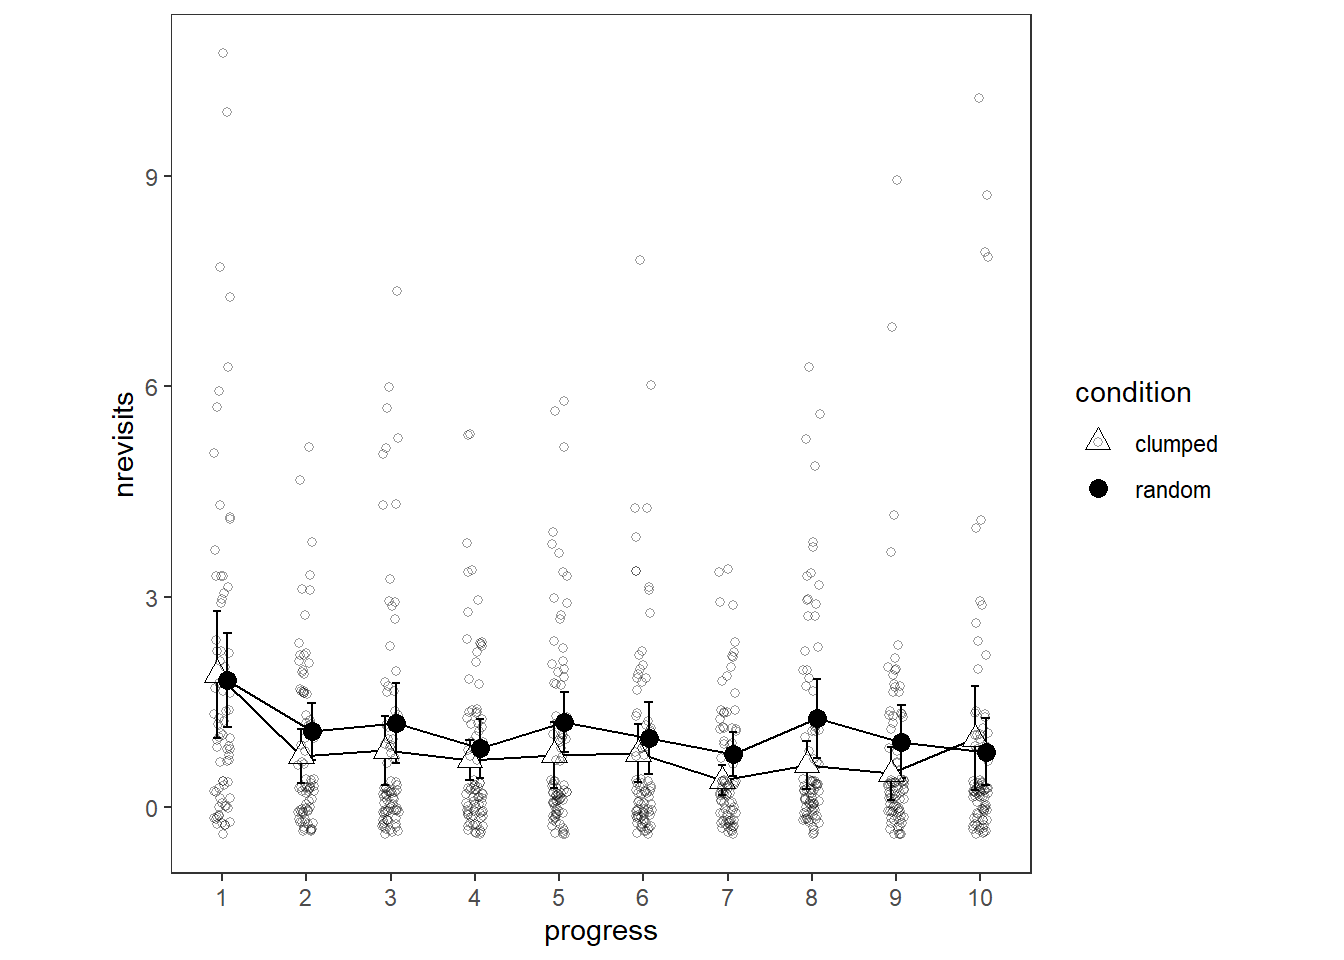
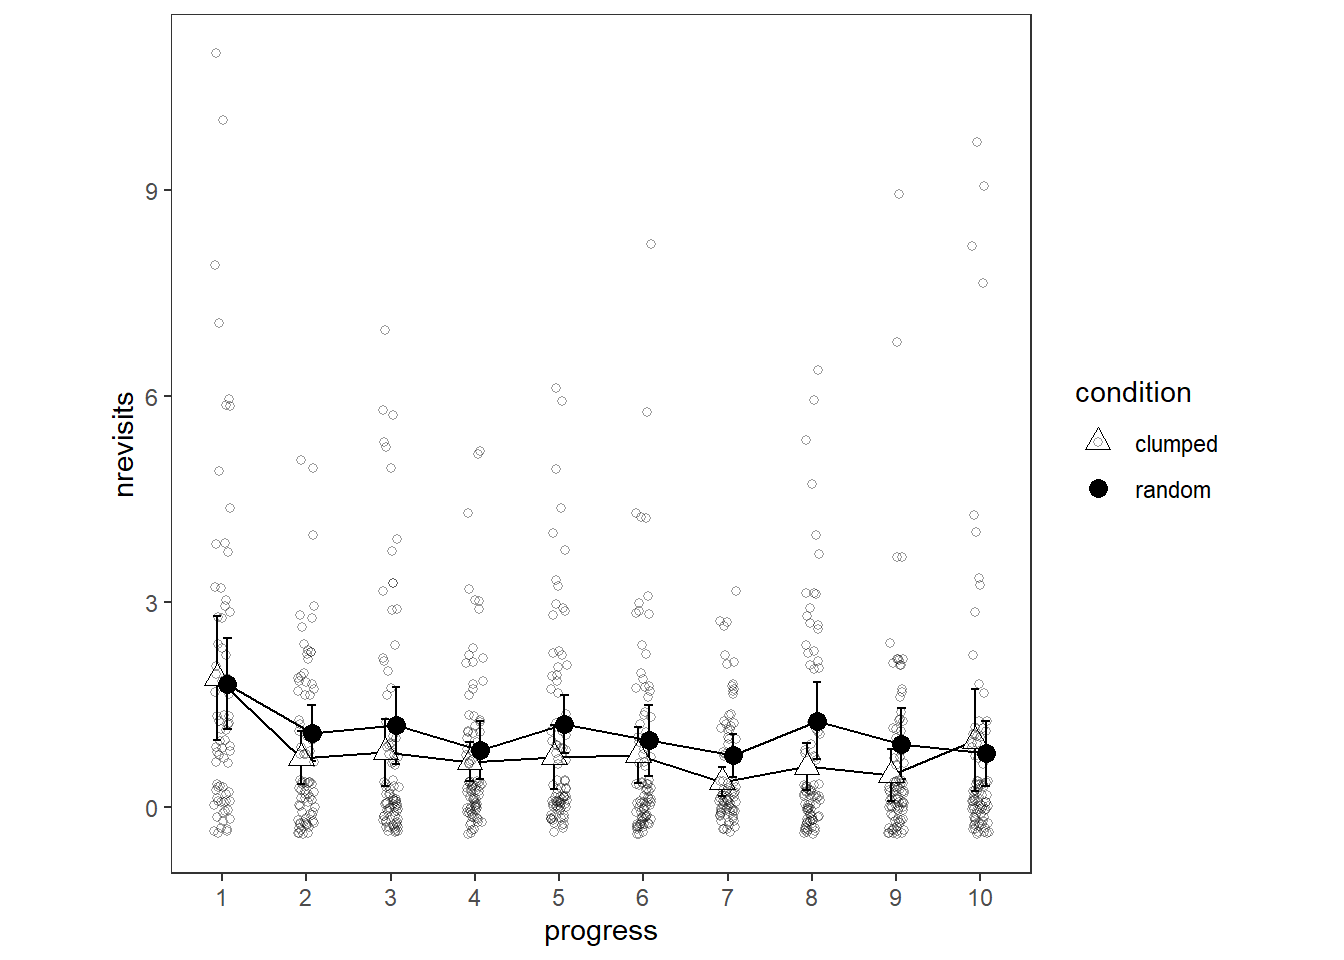
add retrieval rate for e2

diff --git a/docs/retrieval-rate-1.html b/docs/retrieval-rate-1.html
@@ -6,15 +6,15 @@
 <meta name="viewport" content="width=device-width, initial-scale=1, shrink-to-fit=no">
 <title>Chapter 12 Retrieval Rate | Foraging: introducing our gaze-contingent eye-tracking paradigm for studying foraging</title>
 <meta name="author" content="Matthew Green">
-<meta name="description" content="E2">
+<meta name="description" content="Experiment 2">
 <meta name="generator" content="bookdown 0.26 with bs4_book()">
 <meta property="og:title" content="Chapter 12 Retrieval Rate | Foraging: introducing our gaze-contingent eye-tracking paradigm for studying foraging">
 <meta property="og:type" content="book">
 <meta property="og:url" content="https://mjgreen.github.io/foraging-paradigm-paper-2022/retrieval-rate-1.html">
-<meta property="og:description" content="E2">
+<meta property="og:description" content="Experiment 2">
 <meta name="twitter:card" content="summary">
 <meta name="twitter:title" content="Chapter 12 Retrieval Rate | Foraging: introducing our gaze-contingent eye-tracking paradigm for studying foraging">
-<meta name="twitter:description" content="E2">
+<meta name="twitter:description" content="Experiment 2">
 <!-- JS --><script src="https://cdnjs.cloudflare.com/ajax/libs/clipboard.js/2.0.6/clipboard.min.js" integrity="sha256-inc5kl9MA1hkeYUt+EC3BhlIgyp/2jDIyBLS6k3UxPI=" crossorigin="anonymous"></script><script src="https://cdnjs.cloudflare.com/ajax/libs/fuse.js/6.4.6/fuse.js" integrity="sha512-zv6Ywkjyktsohkbp9bb45V6tEMoWhzFzXis+LrMehmJZZSys19Yxf1dopHx7WzIKxr5tK2dVcYmaCk2uqdjF4A==" crossorigin="anonymous"></script><script src="https://kit.fontawesome.com/6ecbd6c532.js" crossorigin="anonymous"></script><script src="libs/jquery-3.6.0/jquery-3.6.0.min.js"></script><meta name="viewport" content="width=device-width, initial-scale=1, shrink-to-fit=no">
 <link href="libs/bootstrap-4.6.0/bootstrap.min.css" rel="stylesheet">
 <script src="libs/bootstrap-4.6.0/bootstrap.bundle.min.js"></script><script src="libs/bs3compat-0.3.1/transition.js"></script><script src="libs/bs3compat-0.3.1/tabs.js"></script><script src="libs/bs3compat-0.3.1/bs3compat.js"></script><link href="libs/bs4_book-1.0.0/bs4_book.css" rel="stylesheet">
@@ -74,7 +74,9 @@
 <h1>
 <span class="header-section-number">12</span> Retrieval Rate<a class="anchor" aria-label="anchor" href="#retrieval-rate-1"><i class="fas fa-link"></i></a>
 </h1>
-<p>E2</p>
+<p>Experiment 2</p>
+<div class="inline-figure"><img src="e2_tables/e2_retrievalrate_ANOVA.png" width="50%"></div>
+<div class="inline-figure"><img src="e2_plots/e2_retrievalrate_PLOT2.png" width="75%"></div>
 
 </div>
   <div class="chapter-nav">
@@ -99,7 +101,7 @@
 <footer class="bg-primary text-light mt-5"><div class="container"><div class="row">
 
   <div class="col-12 col-md-6 mt-3">
-    <p>"<strong>Foraging: introducing our gaze-contingent eye-tracking paradigm for studying foraging</strong>" was written by Matthew Green. It was last built on Tuesday 17 May 2022 at 19:39:22.</p>
+    <p>"<strong>Foraging: introducing our gaze-contingent eye-tracking paradigm for studying foraging</strong>" was written by Matthew Green. It was last built on Tuesday 17 May 2022 at 20:15:53.</p>
   </div>
 
   <div class="col-12 col-md-6 mt-3">

diff --git a/docs/404.html b/docs/404.html
@@ -89,7 +89,7 @@ the table of contents to find the page you are looking for.</p>
 <footer class="bg-primary text-light mt-5"><div class="container"><div class="row">
 
   <div class="col-12 col-md-6 mt-3">
-    <p>"<strong>Foraging: introducing our gaze-contingent eye-tracking paradigm for studying foraging</strong>" was written by Matthew Green. It was last built on Tuesday 17 May 2022 at 19:39:22.</p>
+    <p>"<strong>Foraging: introducing our gaze-contingent eye-tracking paradigm for studying foraging</strong>" was written by Matthew Green. It was last built on Tuesday 17 May 2022 at 20:15:53.</p>
   </div>
 
   <div class="col-12 col-md-6 mt-3">

diff --git a/docs/index.html b/docs/index.html
@@ -108,7 +108,7 @@ set in the _output.yml file.&lt;/p&gt;">
 <footer class="bg-primary text-light mt-5"><div class="container"><div class="row">
 
   <div class="col-12 col-md-6 mt-3">
-    <p>"<strong>Foraging: introducing our gaze-contingent eye-tracking paradigm for studying foraging</strong>" was written by Matthew Green. It was last built on Tuesday 17 May 2022 at 19:39:22.</p>
+    <p>"<strong>Foraging: introducing our gaze-contingent eye-tracking paradigm for studying foraging</strong>" was written by Matthew Green. It was last built on Tuesday 17 May 2022 at 20:15:53.</p>
   </div>
 
   <div class="col-12 col-md-6 mt-3">

diff --git a/docs/references.html b/docs/references.html
@@ -106,7 +106,7 @@ set in the _output.yml file.&lt;/p&gt;">
 <footer class="bg-primary text-light mt-5"><div class="container"><div class="row">
 
   <div class="col-12 col-md-6 mt-3">
-    <p>"<strong>Foraging: introducing our gaze-contingent eye-tracking paradigm for studying foraging</strong>" was written by Matthew Green. It was last built on Tuesday 17 May 2022 at 19:39:22.</p>
+    <p>"<strong>Foraging: introducing our gaze-contingent eye-tracking paradigm for studying foraging</strong>" was written by Matthew Green. It was last built on Tuesday 17 May 2022 at 20:15:53.</p>
   </div>
 
   <div class="col-12 col-md-6 mt-3">

diff --git a/docs/inter-tree-distance.html b/docs/inter-tree-distance.html
@@ -102,7 +102,7 @@
 <footer class="bg-primary text-light mt-5"><div class="container"><div class="row">
 
   <div class="col-12 col-md-6 mt-3">
-    <p>"<strong>Foraging: introducing our gaze-contingent eye-tracking paradigm for studying foraging</strong>" was written by Matthew Green. It was last built on Tuesday 17 May 2022 at 19:39:22.</p>
+    <p>"<strong>Foraging: introducing our gaze-contingent eye-tracking paradigm for studying foraging</strong>" was written by Matthew Green. It was last built on Tuesday 17 May 2022 at 20:15:53.</p>
   </div>
 
   <div class="col-12 col-md-6 mt-3">

diff --git a/docs/introduction-1.html b/docs/introduction-1.html
@@ -105,7 +105,7 @@
 <footer class="bg-primary text-light mt-5"><div class="container"><div class="row">
 
   <div class="col-12 col-md-6 mt-3">
-    <p>"<strong>Foraging: introducing our gaze-contingent eye-tracking paradigm for studying foraging</strong>" was written by Matthew Green. It was last built on Tuesday 17 May 2022 at 19:39:22.</p>
+    <p>"<strong>Foraging: introducing our gaze-contingent eye-tracking paradigm for studying foraging</strong>" was written by Matthew Green. It was last built on Tuesday 17 May 2022 at 20:15:53.</p>
   </div>
 
   <div class="col-12 col-md-6 mt-3">

diff --git a/docs/introduction.html b/docs/introduction.html
@@ -104,7 +104,7 @@
 <footer class="bg-primary text-light mt-5"><div class="container"><div class="row">
 
   <div class="col-12 col-md-6 mt-3">
-    <p>"<strong>Foraging: introducing our gaze-contingent eye-tracking paradigm for studying foraging</strong>" was written by Matthew Green. It was last built on Tuesday 17 May 2022 at 19:39:22.</p>
+    <p>"<strong>Foraging: introducing our gaze-contingent eye-tracking paradigm for studying foraging</strong>" was written by Matthew Green. It was last built on Tuesday 17 May 2022 at 20:15:53.</p>
   </div>
 
   <div class="col-12 col-md-6 mt-3">

diff --git a/docs/number-of-revisits.html b/docs/number-of-revisits.html
@@ -101,7 +101,7 @@
 <footer class="bg-primary text-light mt-5"><div class="container"><div class="row">
 
   <div class="col-12 col-md-6 mt-3">
-    <p>"<strong>Foraging: introducing our gaze-contingent eye-tracking paradigm for studying foraging</strong>" was written by Matthew Green. It was last built on Tuesday 17 May 2022 at 19:39:22.</p>
+    <p>"<strong>Foraging: introducing our gaze-contingent eye-tracking paradigm for studying foraging</strong>" was written by Matthew Green. It was last built on Tuesday 17 May 2022 at 20:15:53.</p>
   </div>
 
   <div class="col-12 col-md-6 mt-3">

diff --git a/docs/number-of-trees-1.html b/docs/number-of-trees-1.html
@@ -101,7 +101,7 @@
 <footer class="bg-primary text-light mt-5"><div class="container"><div class="row">
 
   <div class="col-12 col-md-6 mt-3">
-    <p>"<strong>Foraging: introducing our gaze-contingent eye-tracking paradigm for studying foraging</strong>" was written by Matthew Green. It was last built on Tuesday 17 May 2022 at 19:39:22.</p>
+    <p>"<strong>Foraging: introducing our gaze-contingent eye-tracking paradigm for studying foraging</strong>" was written by Matthew Green. It was last built on Tuesday 17 May 2022 at 20:15:53.</p>
   </div>
 
   <div class="col-12 col-md-6 mt-3">

diff --git a/docs/revisits-per-trial.html b/docs/revisits-per-trial.html
@@ -233,7 +233,7 @@
 <footer class="bg-primary text-light mt-5"><div class="container"><div class="row">
 
   <div class="col-12 col-md-6 mt-3">
-    <p>"<strong>Foraging: introducing our gaze-contingent eye-tracking paradigm for studying foraging</strong>" was written by Matthew Green. It was last built on Tuesday 17 May 2022 at 19:39:22.</p>
+    <p>"<strong>Foraging: introducing our gaze-contingent eye-tracking paradigm for studying foraging</strong>" was written by Matthew Green. It was last built on Tuesday 17 May 2022 at 20:15:53.</p>
   </div>
 
   <div class="col-12 col-md-6 mt-3">

diff --git a/docs/trial-duration-1.html b/docs/trial-duration-1.html
@@ -101,7 +101,7 @@
 <footer class="bg-primary text-light mt-5"><div class="container"><div class="row">
 
   <div class="col-12 col-md-6 mt-3">
-    <p>"<strong>Foraging: introducing our gaze-contingent eye-tracking paradigm for studying foraging</strong>" was written by Matthew Green. It was last built on Tuesday 17 May 2022 at 19:39:22.</p>
+    <p>"<strong>Foraging: introducing our gaze-contingent eye-tracking paradigm for studying foraging</strong>" was written by Matthew Green. It was last built on Tuesday 17 May 2022 at 20:15:53.</p>
   </div>
 
   <div class="col-12 col-md-6 mt-3">

diff --git a/docs/appendix-a.html b/docs/appendix-a.html
@@ -99,7 +99,7 @@
 <footer class="bg-primary text-light mt-5"><div class="container"><div class="row">
 
   <div class="col-12 col-md-6 mt-3">
-    <p>"<strong>Foraging: introducing our gaze-contingent eye-tracking paradigm for studying foraging</strong>" was written by Matthew Green. It was last built on Tuesday 17 May 2022 at 19:39:22.</p>
+    <p>"<strong>Foraging: introducing our gaze-contingent eye-tracking paradigm for studying foraging</strong>" was written by Matthew Green. It was last built on Tuesday 17 May 2022 at 20:15:53.</p>
   </div>
 
   <div class="col-12 col-md-6 mt-3">
